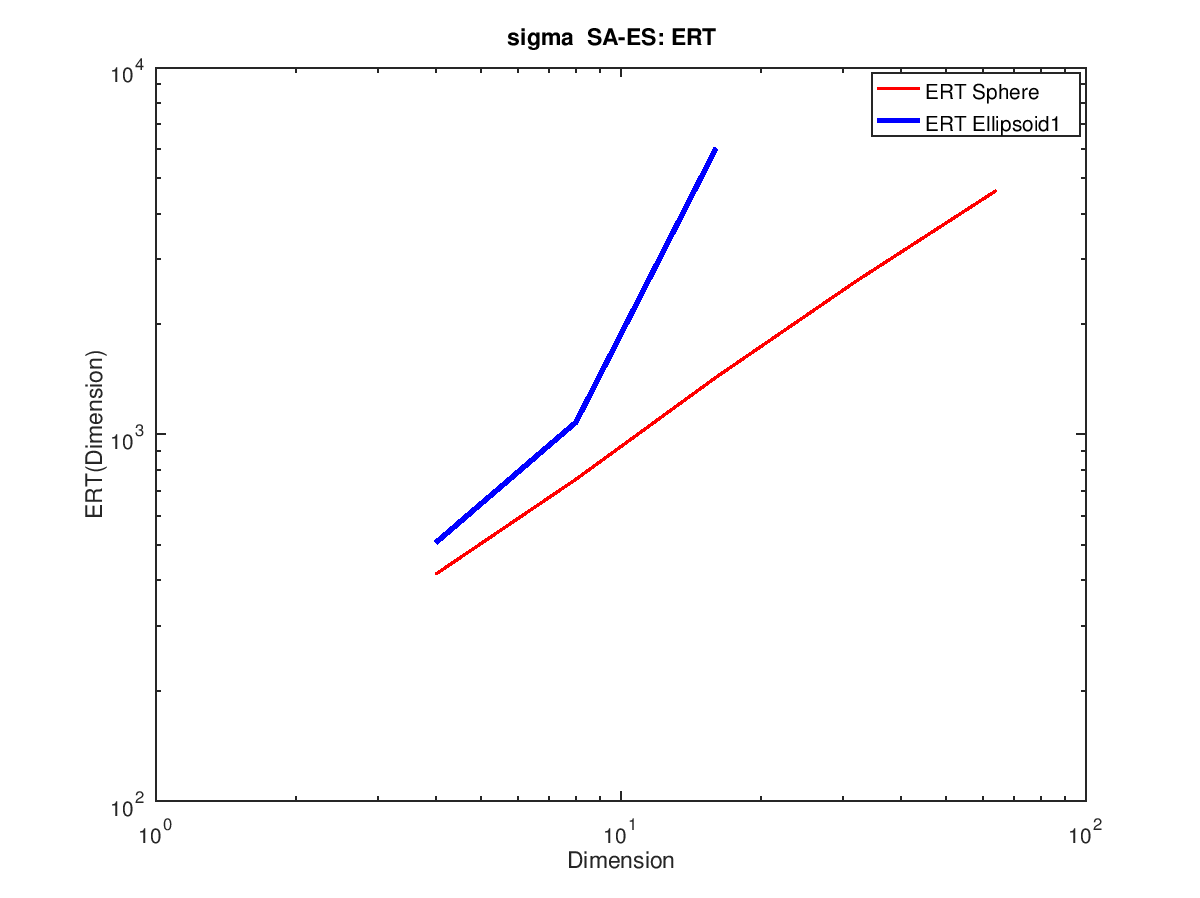
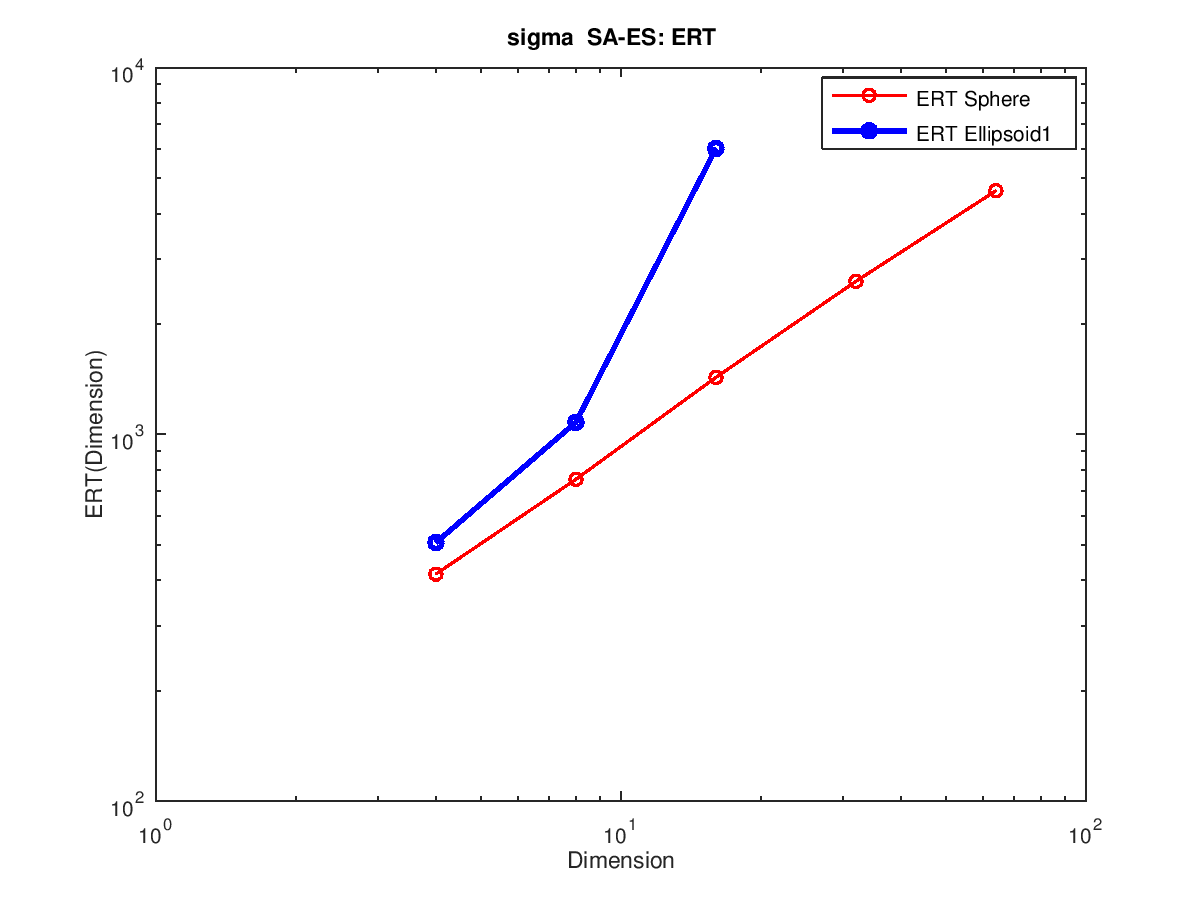
Some small changes ;D

diff --git a/Ue2_Exercise6/SimulatedAnnealingTSP.m b/Ue2_Exercise6/SimulatedAnnealingTSP.m
@@ -7,7 +7,7 @@ function[g, fitnessParent, yOffspring, stats] = SimulatedAnnealingTSP(y, tempera
   fitnessParent = TSP(yParent, citiesPosition); %feval(fun, yParent);
   temperature = temperatureInit;
   generation = 0;
-
+  figure
   do
     % Change permutation
     yOffspring = feval("lin2opt",yParent);
@@ -35,6 +35,7 @@ function[g, fitnessParent, yOffspring, stats] = SimulatedAnnealingTSP(y, tempera
     
   until(temperature <= temperatureStop || generation > gLimit) 
  
+    figure
     % print last plot
    plotPath(yParent, citiesPosition, fitnessParent, generation, temperature); 
 end 
@@ -65,24 +66,34 @@ end
 
 %%% plot path %%%
 function plotPath(yParent, citiesPosition, fitnessParent, generationCount, temperature)
+  plot (citiesPosition(:,1), citiesPosition(:,2),'-or','LineWidth',2);
+  drawnow();
+    
   clf; % clear figure
-  for i = 1:size(yParent,1)
-    xValue = citiesPosition(yParent(i),1);
-    yValue = citiesPosition(yParent(i),2);
-    
-    plot(xValue,yValue);
-    hold on;
-    
-    if(i > 1)
-      line ([xValue xValueLast], [yValue yValueLast], "linestyle", "-", "color", "r");
-      hold on
-    end
-    
-    xValueLast = xValue;
-    yValueLast = yValue;
-  end
-  line ([citiesPosition(yParent(1),1) xValueLast], [citiesPosition(yParent(1),2) yValueLast], "linestyle", "-", "color", "r");
+%  for i = 1:size(yParent,1)
+%    xValue = citiesPosition(yParent(i),1);
+%    yValue = citiesPosition(yParent(i),2);
+%    
+%    plot(xValue,yValue);
+%    hold on;
+%    
+%    if(i > 1)
+%      line ([xValue xValueLast], [yValue yValueLast], "linestyle", "-", "color", "m");
+%      hold on
+%    end
+%    
+%    xValueLast = xValue;
+%    yValueLast = yValue;
+%  end
+%  line ([citiesPosition(yParent(1),1) xValueLast], [citiesPosition(yParent(1),2) yValueLast], "linestyle", "-", "color", "r");
   axis off; % remove axis
   title (strcat("Fitness: ", num2str(fitnessParent),", Generation: ", num2str(generationCount), ", Temperature: ", num2str(temperature)));
   drawnow(); % refresh
 end
+
+
+
+%
+%for length citiy postpadexcitypos(i,:)  city_pos(yparent(i),:);
+%  
+%  ext citypos(length(citypos(+1,:)

diff --git a/Ue2_Exercise1/Exercise1.m b/Ue2_Exercise1/Exercise1.m
@@ -3,7 +3,7 @@ sigma = 1;
 sigmaStop = 10^(-5);
 mu = 3;
 lambda = 12;
-gLimit = 500;
+gLimit = 1500;
 independentRuns = 15;
 fitnessTarget = 10^(-4);
 
@@ -14,9 +14,9 @@ for round = 1:size(dimensions)
   runsToSuccess = 0; % count the runs, until we get a success
   % run the test a couple of times independent with the same dimension
   
+  N = dimensions{round};
   printf("%s, N=%d\n", 'Sphere', N);
   for run = 1:independentRuns
-      N = dimensions{round};
       yParent = ones(N, 1)*10;
       [parentsRecomb, fp, g, stats] = MuMuILambdaES(yParent, sigma, sigmaStop, gLimit, mu, lambda,"Sphere", fitnessTarget );
       ertTotalSphere += stats.funEvals;  % sum up total function evaluations
@@ -35,9 +35,9 @@ for round = 1:size(dimensions)
   runsToSuccess = 0; % count the runs, until we get a success
   % run the test a couple of times independent with the same dimension
   
+  N = dimensions{round};
   printf("%s, N=%d\n", 'Ellipsoid', N);
   for run = 1:independentRuns
-      N = dimensions{round};
       yParent = ones(N, 1)*10;
       [parentsRecomb, fp, g, stats] = MuMuILambdaES(yParent, sigma, sigmaStop, gLimit, mu, lambda,"Ellipsoid1", fitnessTarget );
       ertTotalEllipsoid1 += stats.funEvals;  % sum up total function evaluations
@@ -51,9 +51,9 @@ end
  
 plot1 = figure(1);
 dimensions = [4;8;16;32;64];
-loglog(dimensions, ertHistorySphere, 'r-',"linewidth", 1);
+loglog(dimensions, ertHistorySphere, 'o-r',"color","r", "linewidth", 1);
 hold on
-loglog(dimensions, ertHistoryEllipsoid1, 'b-', "linewidth", 2);
+loglog(dimensions, ertHistoryEllipsoid1, 'o-r',"color", "b", "linewidth", 2);
 
 legend("ERT Sphere", "ERT Ellipsoid1");
 title(strcat("{\sigma}SA-ES: ERT"));
